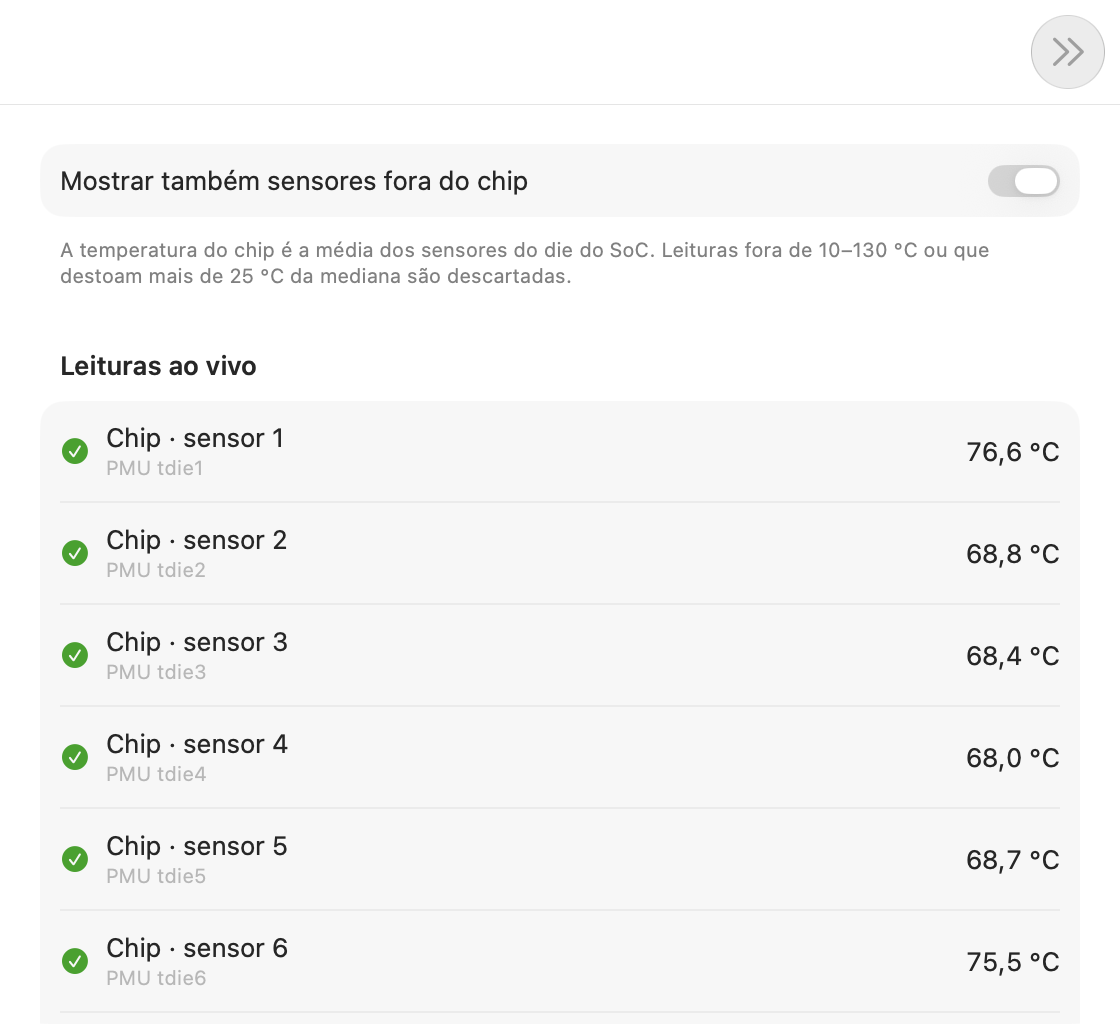
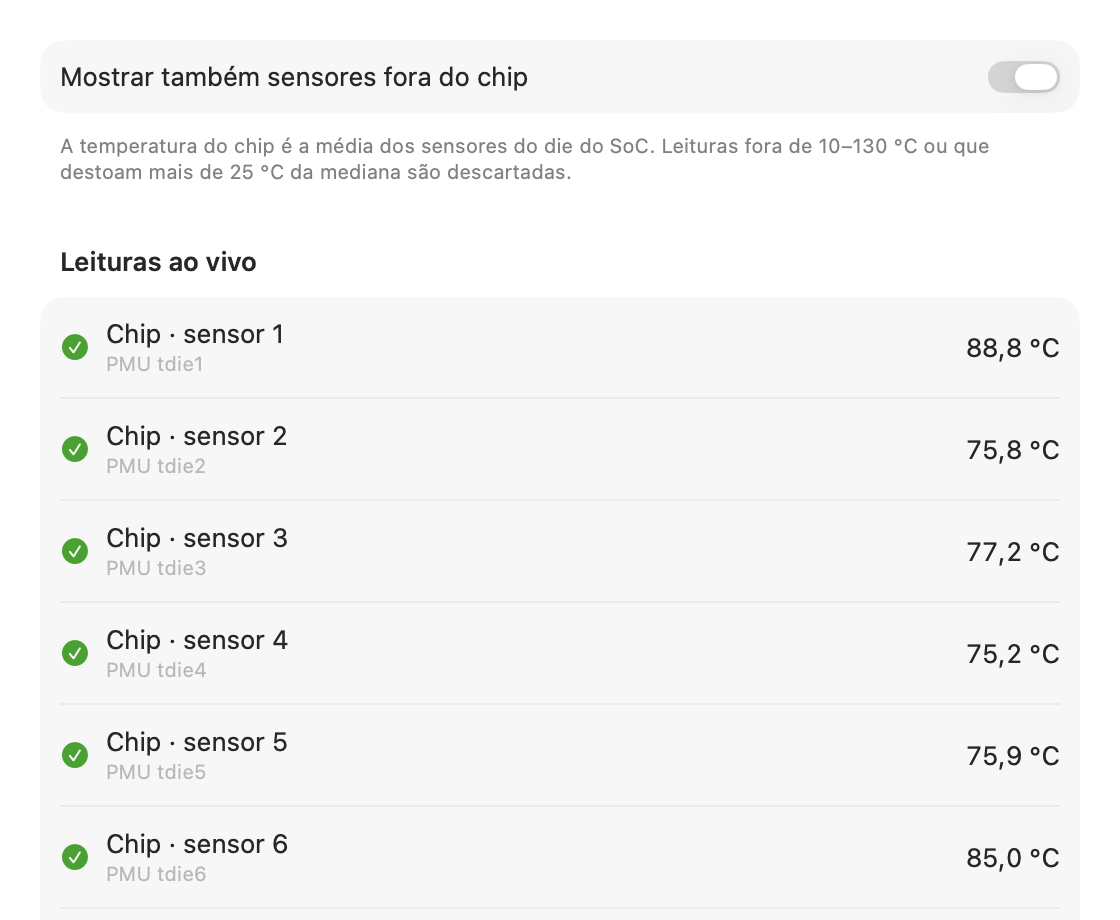
Ajusta as capturas da documentação
As capturas passam a mostrar só o conteúdo da aba, sem a barra de abas
recolhida que aparecia fora da janela de Ajustes real.

diff --git a/TermoBar/UI/Settings/SettingsView.swift b/TermoBar/UI/Settings/SettingsView.swift
@@ -10,22 +10,61 @@ enum SettingsTab: String, CaseIterable {
     case about = "sobre"
 }
 
+extension SettingsTab {
+    var title: String {
+        switch self {
+        case .general: "Geral"
+        case .menuBar: "Barra de menus"
+        case .alerts: "Alertas"
+        case .sensors: "Sensores"
+        case .data: "Dados"
+        case .methodology: "Precisão"
+        case .about: "Sobre"
+        }
+    }
+
+    var symbol: String {
+        switch self {
+        case .general: "gearshape"
+        case .menuBar: "menubar.rectangle"
+        case .alerts: "bell.badge"
+        case .sensors: "sensor"
+        case .data: "externaldrive"
+        case .methodology: "scope"
+        case .about: "info.circle"
+        }
+    }
+
+    /// Conteúdo da aba, também usado sozinho nas capturas de tela da documentação.
+    @ViewBuilder @MainActor
+    var content: some View {
+        switch self {
+        case .general: GeneralSettingsView()
+        case .menuBar: MenuBarSettingsView()
+        case .alerts: AlertSettingsView()
+        case .sensors: SensorSettingsView()
+        case .data: DataSettingsView()
+        case .methodology: MethodologyView()
+        case .about: AboutView()
+        }
+    }
+}
+
 /// Janela de Ajustes.
 struct SettingsView: View {
+    /// Largura da janela, igual em todas as abas.
+    static let width: CGFloat = 560
+
     @State var selection: SettingsTab = .general
 
     var body: some View {
         TabView(selection: $selection) {
-            Tab("Geral", systemImage: "gearshape", value: .general) { GeneralSettingsView() }
-            Tab("Barra de menus", systemImage: "menubar.rectangle", value: .menuBar) { MenuBarSettingsView() }
-            Tab("Alertas", systemImage: "bell.badge", value: .alerts) { AlertSettingsView() }
-            Tab("Sensores", systemImage: "sensor", value: .sensors) { SensorSettingsView() }
-            Tab("Dados", systemImage: "externaldrive", value: .data) { DataSettingsView() }
-            Tab("Precisão", systemImage: "scope", value: .methodology) { MethodologyView() }
-            Tab("Sobre", systemImage: "info.circle", value: .about) { AboutView() }
+            ForEach(SettingsTab.allCases, id: \.self) { tab in
+                Tab(tab.title, systemImage: tab.symbol, value: tab) { tab.content }
+            }
         }
         // O Form agrupado já tem margens próprias; sem `scenePadding` o espaçamento fica igual ao do macOS.
-        .frame(width: 560)
+        .frame(width: Self.width)
     }
 }
 

diff --git a/TermoBar/App/DebugSnapshot.swift b/TermoBar/App/DebugSnapshot.swift
@@ -42,11 +42,16 @@
         private static func makeWindow(settingsTab: SettingsTab?) -> NSWindow {
             let window = NSWindow(
                 contentRect: NSRect(x: 200, y: 200, width: 480, height: 800),
-                styleMask: settingsTab == nil ? [.borderless] : [.titled], backing: .buffered, defer: false)
+                styleMask: [.borderless], backing: .buffered, defer: false)
             let content: NSView
             if let settingsTab {
+                // Só o conteúdo da aba: fora da cena Settings, a barra de abas não teria onde aparecer.
                 if settingsTab == .sensors { AppDependencies.monitor.showAllSensors = true }
-                content = NSHostingView(rootView: SettingsView(selection: settingsTab).appDependencies())
+                content = NSHostingView(
+                    rootView: settingsTab.content
+                        .frame(width: SettingsView.width)
+                        .background(Color(nsColor: .windowBackgroundColor))
+                        .appDependencies())
             } else {
                 window.isOpaque = false
                 window.backgroundColor = .clear
